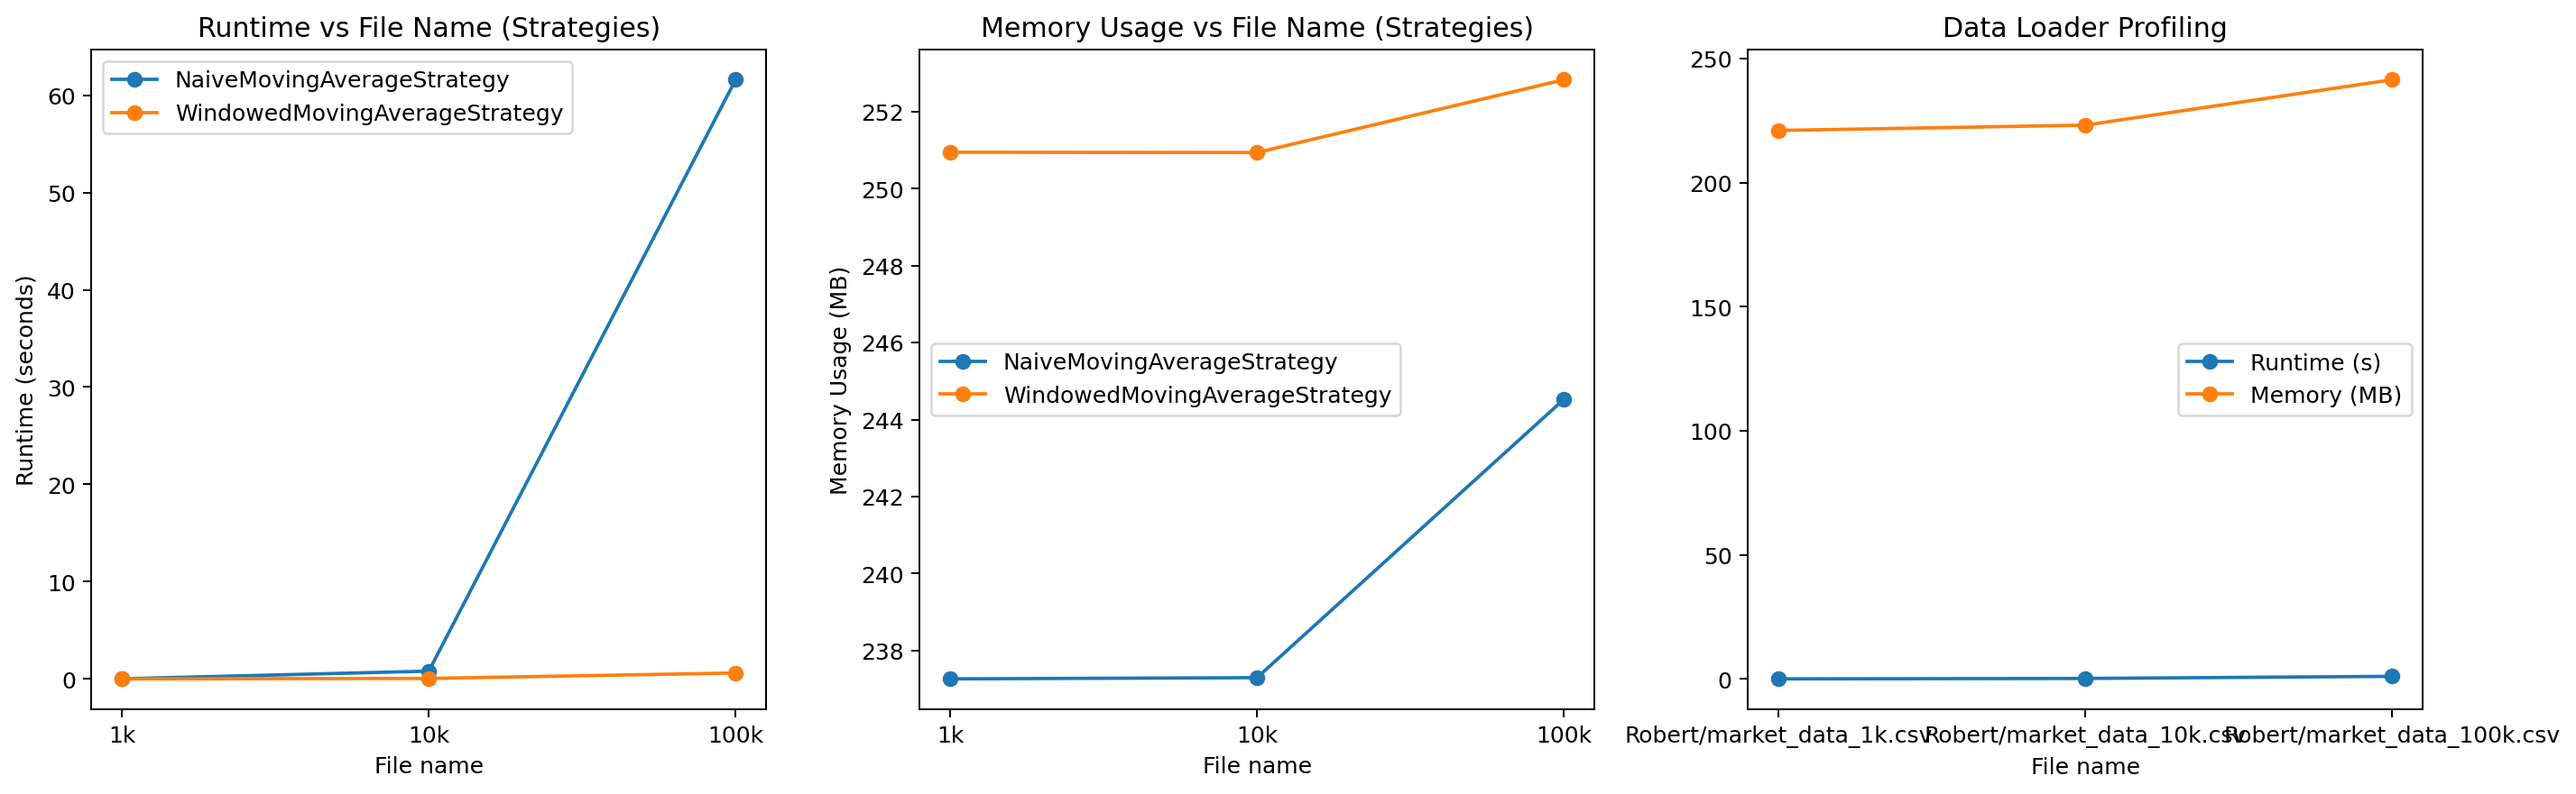
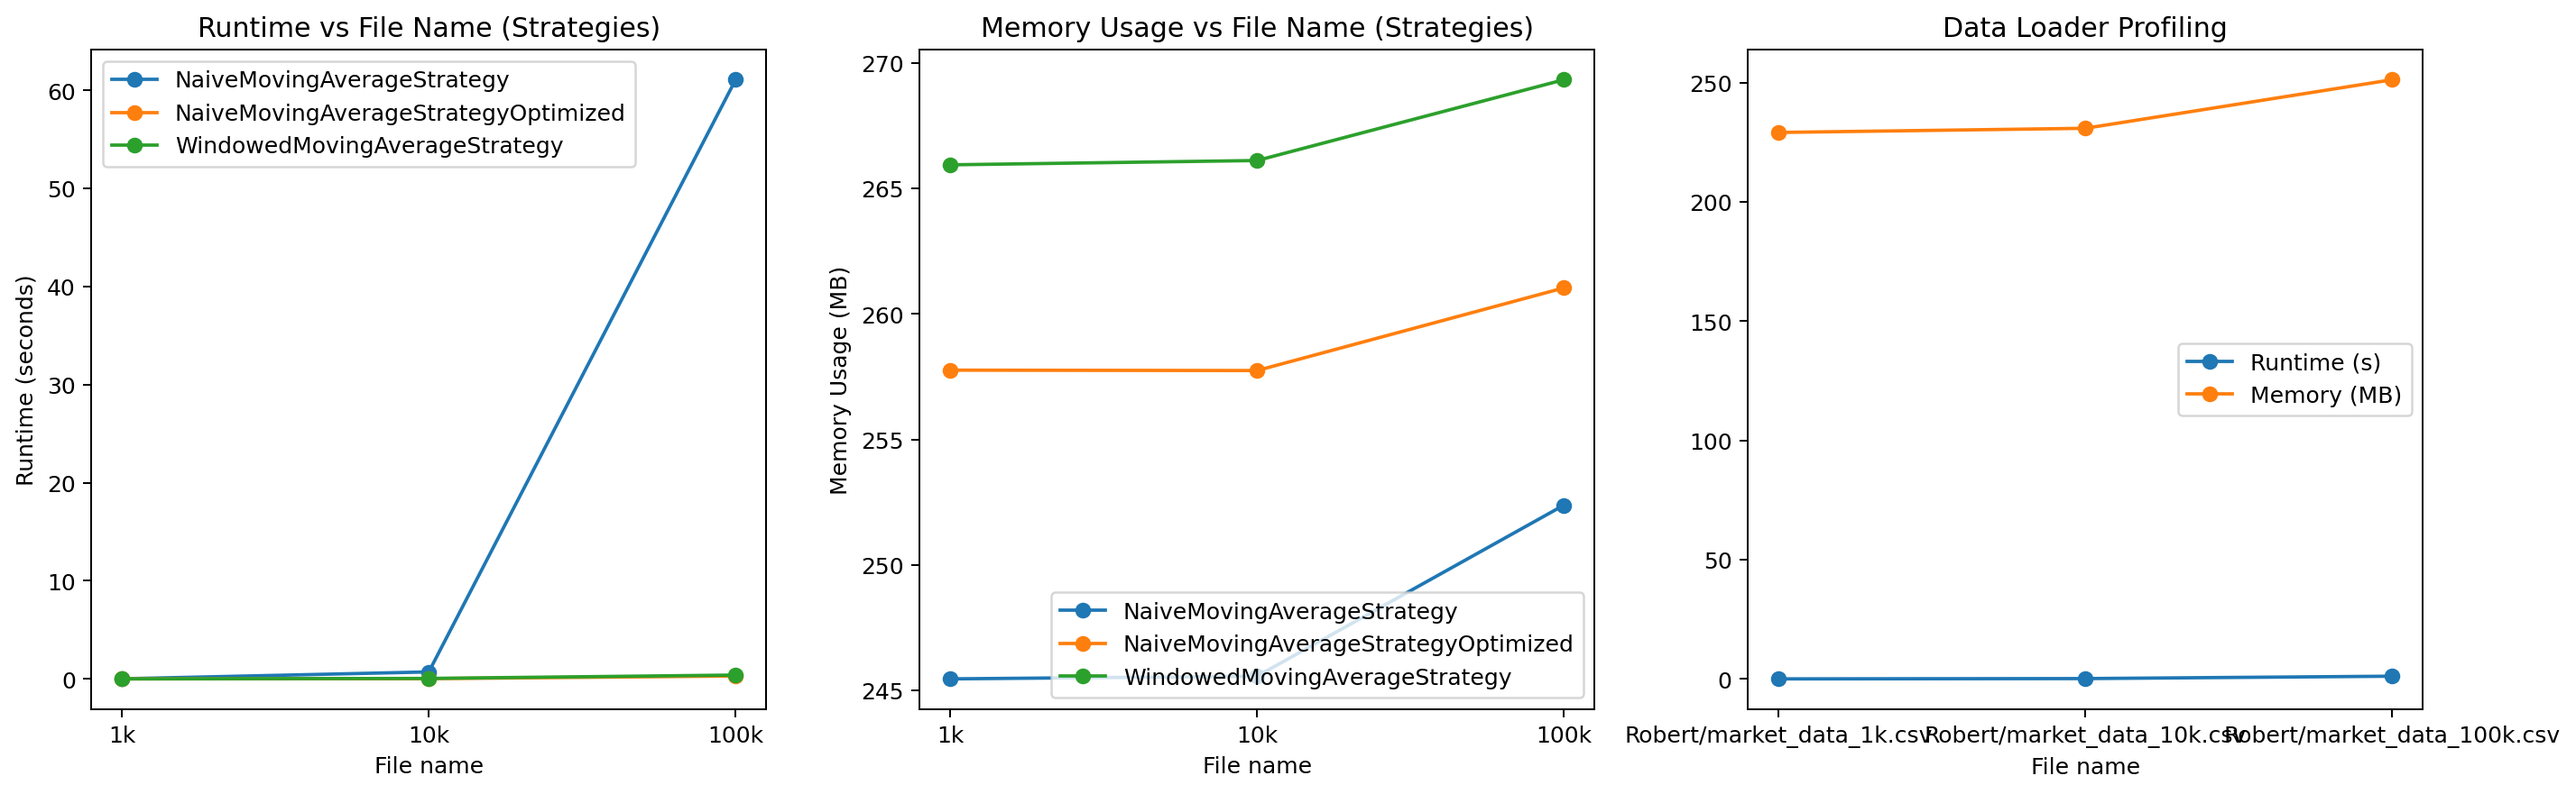
Done.

diff --git a/Robert/main.py b/Robert/main.py
@@ -2,13 +2,13 @@ import data_loader
 from data_loader import read_csv_to_immutable_list
 from profiler import profile_memory, run_strategies_memory_check, run_strategies_time_check, run_data_loader_time_check, plot_profiling_results
 from models import Strategy
-from strategies import NaiveMovingAverageStrategy, WindowedMovingAverageStrategy
+from strategies import NaiveMovingAverageStrategy, NaiveMovingAverageStrategyOptimized, WindowedMovingAverageStrategy
 from tqdm import tqdm
 import timeit
 import pandas as pd
 
 def main():
-    strategies = [NaiveMovingAverageStrategy, WindowedMovingAverageStrategy]
+    strategies = [NaiveMovingAverageStrategy, NaiveMovingAverageStrategyOptimized ,WindowedMovingAverageStrategy]
     file_paths = ["Robert/market_data_1k.csv", "Robert/market_data_10k.csv", "Robert/market_data_100k.csv"]
     file_path_name_dict = {"Robert/market_data_1k.csv" : "1k", "Robert/market_data_10k.csv": "10k", "Robert/market_data_100k.csv": "100k"}
     # Check time and memory usage to load CSV to MarketDataPoints
@@ -95,11 +95,14 @@ if __name__ == "__main__":
         f.write("\n\n## Plots of scaling behavior\n\n")
         # Add your plot references here; see section 3 below for details
         # Examples:
-        f.write("![Time and memory profile](Robert/profiling_results.png)\n\n")
+        f.write("![Time and memory profile](profiling_results.png)\n\n")
 
 
-        f.write("## Narrative comparing strategies and optimization impact\n\n")
-        f.write("Add your analysis here. Compare throughput, latency, and memory across dataset sizes. Note any optimizations and their impact.\n\n")
+        f.write("## Comparing strategies and optimization impact\n\n")
+        f.write("We can see that with few tick the strategy does not matter a lot but when the ticks are increased a bit, they start to matter a lot. \n\n")
+        f.write("Runtime shoots up when ticks are increased to 100k for the orginial Naive strategy and for all strategies the memory usage starts to creep up with a 100k ticks. \n\n")
+        f.write("We can also see that a little optimization has an impact on the Naive strategy.. \n\n")
+
 
     # Second run: cProfile the workload and append the stats to the report
     import cProfile, pstats, io

diff --git a/Robert/strategies.py b/Robert/strategies.py
@@ -53,3 +53,28 @@ class WindowedMovingAverageStrategy(Strategy):
             self.prices.append(price)
             self.running_sum += price
             return signal
+
+
+class NaiveMovingAverageStrategyOptimized(Strategy):
+    def __init__(self):
+        self.prices = []
+        self._running_sum = 0.0
+
+    def generate_signals(self, tick):
+        price = tick.price
+        if not self.prices:
+            self.prices.append(price)
+            self._running_sum += price
+            return []
+        # O(1) average
+        mean_price = self._running_sum / len(self.prices)
+        if price < mean_price:
+            signal = ['BUY']
+        elif price > mean_price:
+            signal = ['SELL']
+        else:
+            signal = []
+        # update state
+        self.prices.append(price)
+        self._running_sum += price
+        return signal

diff --git a/Robert/complexity_report.md b/Robert/complexity_report.md
@@ -6,89 +6,96 @@
 
 | file                        |   load_time_s |   peak_mem_mb |
 |:----------------------------|--------------:|--------------:|
-| Robert/market_data_1k.csv   |     0.0052416 |       139.367 |
-| Robert/market_data_10k.csv  |     0.0558876 |       143.625 |
-| Robert/market_data_100k.csv |     0.481754  |       165.043 |
+| Robert/market_data_1k.csv   |     0.0047656 |       139.359 |
+| Robert/market_data_10k.csv  |     0.0472322 |       143.691 |
+| Robert/market_data_100k.csv |     0.579225  |       165.125 |
 
 ### Strategies
 
-| strategy                      | file   |   run_time_s |   peak_mem_mb |   signals_count |
-|:------------------------------|:-------|-------------:|--------------:|----------------:|
-| NaiveMovingAverageStrategy    | 1k     |    0.0100881 |       168.602 |            1001 |
-| NaiveMovingAverageStrategy    | 10k    |    0.760158  |       168.617 |           10001 |
-| NaiveMovingAverageStrategy    | 100k   |   55.5227    |       175.133 |          100001 |
-| WindowedMovingAverageStrategy | 1k     |    0.0004893 |       180.121 |            1001 |
-| WindowedMovingAverageStrategy | 10k    |    0.0136695 |       180.254 |           10001 |
-| WindowedMovingAverageStrategy | 100k   |    0.0915048 |       183.359 |          100001 |
+| strategy                            | file   |   run_time_s |   peak_mem_mb |   signals_count |
+|:------------------------------------|:-------|-------------:|--------------:|----------------:|
+| NaiveMovingAverageStrategy          | 1k     |    0.0058139 |       168.699 |            1001 |
+| NaiveMovingAverageStrategy          | 10k    |    0.529815  |       168.641 |           10001 |
+| NaiveMovingAverageStrategy          | 100k   |   49.3404    |       174.34  |          100001 |
+| NaiveMovingAverageStrategyOptimized | 1k     |    0.0005799 |       180.891 |            1001 |
+| NaiveMovingAverageStrategyOptimized | 10k    |    0.0050465 |       178.867 |           10001 |
+| NaiveMovingAverageStrategyOptimized | 100k   |    0.0807568 |       182.777 |          100001 |
+| WindowedMovingAverageStrategy       | 1k     |    0.0013898 |       187.906 |            1001 |
+| WindowedMovingAverageStrategy       | 10k    |    0.0062975 |       188.082 |           10001 |
+| WindowedMovingAverageStrategy       | 100k   |    0.220536  |       190.789 |          100001 |
 
 ## Plots of scaling behavior
 
-![Time and memory profile](Robert/profiling_results.png)
+![Time and memory profile](profiling_results.png)
 
-## Narrative comparing strategies and optimization impact
+## Comparing strategies and optimization impact
 
-Add your analysis here. Compare throughput, latency, and memory across dataset sizes. Note any optimizations and their impact.
+We can see that with few tick the strategy does not matter a lot but when the ticks are increased a bit, they start to matter a lot. 
+
+Runtime shoots up when ticks are increased to 100k for the orginial Naive strategy and for all strategies the memory usage starts to creep up with a 100k ticks. 
+
+We can also see that a little optimization has an impact on the Naive strategy.. 
 
 
 ## Additional profiling: cProfile
 
 ```
-         6223190 function calls (6205838 primitive calls) in 353.602 seconds
+         7412461 function calls (7395420 primitive calls) in 675.403 seconds
 
    Ordered by: cumulative time
-   List reduced from 1738 to 50 due to restriction <50>
+   List reduced from 1740 to 50 due to restriction <50>
 
    ncalls  tottime  percall  cumtime  percall filename:lineno(function)
-    434/2    0.009    0.000  352.416  176.208 C:\Users\Lenovo\anaconda3\Lib\site-packages\matplotlib\text.py:926(get_window_extent)
-       34    0.012    0.000  258.286    7.597 C:\Users\Lenovo\anaconda3\Lib\threading.py:641(wait)
-       21    0.001    0.000  219.946   10.474 c:\Users\Lenovo\Documents\FinMath UChicago\Coursework\FINM 32500 1 Computing for Finance in Python\Assignment 3\Assignment_3\Robert\profiler.py:11(profile_memory)
-       21    0.333    0.016  212.401   10.114 C:\Users\Lenovo\anaconda3\Lib\site-packages\memory_profiler.py:269(memory_usage)
-        6    0.225    0.037  188.391   31.399 c:\Users\Lenovo\Documents\FinMath UChicago\Coursework\FINM 32500 1 Computing for Finance in Python\Assignment 3\Assignment_3\Robert\profiler.py:21(run_strategies_memory_check)
-      255    0.003    0.000  180.911    0.709 C:\Users\Lenovo\anaconda3\Lib\multiprocessing\connection.py:246(recv)
-      255    0.005    0.000  180.905    0.709 C:\Users\Lenovo\anaconda3\Lib\multiprocessing\connection.py:310(_recv_bytes)
-      170  180.895    1.064  180.895    1.064 {built-in method _winapi.WaitForMultipleObjects}
-       34    0.378    0.011  154.353    4.540 C:\Users\Lenovo\anaconda3\Lib\threading.py:327(wait)
-   222035    1.064    0.000  128.234    0.001 c:\Users\Lenovo\Documents\FinMath UChicago\Coursework\FINM 32500 1 Computing for Finance in Python\Assignment 3\Assignment_3\Robert\strategies.py:12(generate_signals)
-   224210  126.992    0.001  127.276    0.001 {built-in method builtins.sum}
-    523/2    0.041    0.000  114.092   57.046 C:\Users\Lenovo\anaconda3\Lib\site-packages\matplotlib\text.py:358(_get_layout)
-      139   29.983    0.216   29.993    0.216 {method 'acquire' of '_thread.lock' objects}
-      722    0.036    0.000   10.028    0.014 C:\Users\Lenovo\anaconda3\Lib\site-packages\tqdm\std.py:102(acquire)
-       59    0.000    0.000   10.017    0.170 C:\Users\Lenovo\anaconda3\Lib\site-packages\tqdm\std.py:110(__enter__)
-        6    0.127    0.021    8.680    1.447 c:\Users\Lenovo\Documents\FinMath UChicago\Coursework\FINM 32500 1 Computing for Finance in Python\Assignment 3\Assignment_3\Robert\profiler.py:56(run_strategies_time_check)
-       85    0.001    0.000    6.238    0.073 C:\Users\Lenovo\anaconda3\Lib\multiprocessing\process.py:142(join)
-      204    0.002    0.000    6.237    0.031 C:\Users\Lenovo\anaconda3\Lib\multiprocessing\popen_spawn_win32.py:105(wait)
-      204    6.235    0.031    6.235    0.031 {built-in method _winapi.WaitForSingleObject}
-       10    0.832    0.083    3.130    0.313 c:\Users\Lenovo\Documents\FinMath UChicago\Coursework\FINM 32500 1 Computing for Finance in Python\Assignment 3\Assignment_3\Robert\data_loader.py:11(read_csv_to_immutable_list)
-   235020    1.051    0.000    1.711    0.000 C:\Users\Lenovo\anaconda3\Lib\csv.py:174(__next__)
-        3    0.000    0.000    1.226    0.409 c:\Users\Lenovo\Documents\FinMath UChicago\Coursework\FINM 32500 1 Computing for Finance in Python\Assignment 3\Assignment_3\Robert\profiler.py:48(run_data_loader_time_check)
-   222012    0.209    0.000    0.988    0.000 C:\Users\Lenovo\anaconda3\Lib\site-packages\tqdm\std.py:1160(__iter__)
-   222037    0.646    0.000    0.883    0.000 c:\Users\Lenovo\Documents\FinMath UChicago\Coursework\FINM 32500 1 Computing for Finance in Python\Assignment 3\Assignment_3\Robert\strategies.py:36(generate_signals)
-      657    0.017    0.000    0.751    0.001 C:\Users\Lenovo\anaconda3\Lib\site-packages\tqdm\std.py:1198(update)
-      663    0.007    0.000    0.731    0.001 C:\Users\Lenovo\anaconda3\Lib\site-packages\tqdm\std.py:1325(refresh)
-      669    0.005    0.000    0.708    0.001 C:\Users\Lenovo\anaconda3\Lib\site-packages\tqdm\std.py:1464(display)
-       85    0.002    0.000    0.483    0.006 C:\Users\Lenovo\anaconda3\Lib\multiprocessing\process.py:110(start)
-       85    0.001    0.000    0.462    0.005 C:\Users\Lenovo\anaconda3\Lib\multiprocessing\context.py:222(_Popen)
-       85    0.002    0.000    0.462    0.005 C:\Users\Lenovo\anaconda3\Lib\multiprocessing\context.py:334(_Popen)
-       85    0.005    0.000    0.460    0.005 C:\Users\Lenovo\anaconda3\Lib\multiprocessing\popen_spawn_win32.py:46(__init__)
-238795/238439    0.356    0.000    0.427    0.000 {built-in method builtins.next}
-       85    0.411    0.005    0.411    0.005 {built-in method _winapi.CreateProcess}
-   235010    0.397    0.000    0.397    0.000 <string>:2(__init__)
-     2007    0.004    0.000    0.386    0.000 C:\Users\Lenovo\anaconda3\Lib\site-packages\tqdm\utils.py:378(disp_len)
-     2007    0.006    0.000    0.375    0.000 C:\Users\Lenovo\anaconda3\Lib\site-packages\tqdm\utils.py:374(_text_width)
-   907924    0.357    0.000    0.357    0.000 {method 'append' of 'list' objects}
-      669    0.008    0.000    0.352    0.001 C:\Users\Lenovo\anaconda3\Lib\site-packages\tqdm\std.py:1150(__str__)
-      669    0.005    0.000    0.350    0.001 C:\Users\Lenovo\anaconda3\Lib\site-packages\tqdm\std.py:457(print_status)
-      132    0.010    0.000    0.348    0.003 C:\Users\Lenovo\anaconda3\Lib\site-packages\matplotlib\axis.py:1287(_update_ticks)
-1143533/1143481    0.340    0.000    0.340    0.000 {built-in method builtins.len}
-      669    0.056    0.000    0.334    0.000 C:\Users\Lenovo\anaconda3\Lib\site-packages\tqdm\std.py:464(format_meter)
-   370862    0.185    0.000    0.269    0.000 C:\Users\Lenovo\anaconda3\Lib\site-packages\tqdm\utils.py:375(<genexpr>)
-        1    0.000    0.000    0.212    0.212 C:\Users\Lenovo\anaconda3\Lib\site-packages\matplotlib\image.py:1508(imsave)
-        1    0.000    0.000    0.212    0.212 C:\Users\Lenovo\anaconda3\Lib\site-packages\PIL\Image.py:2509(save)
-        1    0.000    0.000    0.207    0.207 C:\Users\Lenovo\anaconda3\Lib\site-packages\PIL\PngImagePlugin.py:1300(_save)
-        1    0.000    0.000    0.207    0.207 C:\Users\Lenovo\anaconda3\Lib\site-packages\PIL\ImageFile.py:535(_save)
-        1    0.000    0.000    0.207    0.207 C:\Users\Lenovo\anaconda3\Lib\site-packages\PIL\ImageFile.py:563(_encode_tile)
-        3    0.206    0.069    0.206    0.069 {method 'encode' of 'ImagingEncoder' objects}
-   1127/5    0.007    0.000    0.183    0.037 C:\Users\Lenovo\anaconda3\Lib\site-packages\matplotlib\text.py:65(_get_text_metrics_with_cache)
+    408/2    0.008    0.000  566.169  283.085 C:\Users\Lenovo\anaconda3\Lib\site-packages\matplotlib\text.py:926(get_window_extent)
+       30    0.001    0.000  536.711   17.890 c:\Users\Lenovo\Documents\FinMath UChicago\Coursework\FINM 32500 1 Computing for Finance in Python\Assignment 3\Assignment_3\Robert\profiler.py:11(profile_memory)
+       30    1.232    0.041  529.896   17.663 C:\Users\Lenovo\anaconda3\Lib\site-packages\memory_profiler.py:269(memory_usage)
+        9    0.332    0.037  453.030   50.337 c:\Users\Lenovo\Documents\FinMath UChicago\Coursework\FINM 32500 1 Computing for Finance in Python\Assignment 3\Assignment_3\Robert\profiler.py:21(run_strategies_memory_check)
+      483    0.005    0.000  412.364    0.854 C:\Users\Lenovo\anaconda3\Lib\multiprocessing\connection.py:246(recv)
+      483    0.008    0.000  412.354    0.854 C:\Users\Lenovo\anaconda3\Lib\multiprocessing\connection.py:310(_recv_bytes)
+      324  412.339    1.273  412.339    1.273 {built-in method _winapi.WaitForMultipleObjects}
+       66    0.001    0.000  348.732    5.284 C:\Users\Lenovo\anaconda3\Lib\threading.py:641(wait)
+    518/2    0.043    0.000  345.698  172.849 C:\Users\Lenovo\anaconda3\Lib\site-packages\matplotlib\text.py:358(_get_layout)
+       66    0.315    0.005  334.542    5.069 C:\Users\Lenovo\anaconda3\Lib\threading.py:327(wait)
+      267  110.328    0.413  133.687    0.501 {method 'acquire' of '_thread.lock' objects}
+   222049    0.960    0.000  132.502    0.001 c:\Users\Lenovo\Documents\FinMath UChicago\Coursework\FINM 32500 1 Computing for Finance in Python\Assignment 3\Assignment_3\Robert\strategies.py:12(generate_signals)
+   224507  131.397    0.001  131.721    0.001 {built-in method builtins.sum}
+      103    0.001    0.000   90.172    0.875 C:\Users\Lenovo\anaconda3\Lib\site-packages\tqdm\std.py:110(__enter__)
+      829    0.123    0.000   49.023    0.059 C:\Users\Lenovo\anaconda3\Lib\site-packages\tqdm\std.py:102(acquire)
+      416    0.003    0.000   10.486    0.025 C:\Users\Lenovo\anaconda3\Lib\multiprocessing\popen_spawn_win32.py:105(wait)
+      161    0.002    0.000   10.486    0.065 C:\Users\Lenovo\anaconda3\Lib\multiprocessing\process.py:142(join)
+      416   10.482    0.025   10.482    0.025 {built-in method _winapi.WaitForSingleObject}
+        9    0.205    0.023    6.619    0.735 c:\Users\Lenovo\Documents\FinMath UChicago\Coursework\FINM 32500 1 Computing for Finance in Python\Assignment 3\Assignment_3\Robert\profiler.py:56(run_strategies_time_check)
+       10    0.699    0.070    2.644    0.264 c:\Users\Lenovo\Documents\FinMath UChicago\Coursework\FINM 32500 1 Computing for Finance in Python\Assignment 3\Assignment_3\Robert\data_loader.py:11(read_csv_to_immutable_list)
+   235020    0.895    0.000    1.452    0.000 C:\Users\Lenovo\anaconda3\Lib\csv.py:174(__next__)
+        3    0.000    0.000    1.280    0.427 c:\Users\Lenovo\Documents\FinMath UChicago\Coursework\FINM 32500 1 Computing for Finance in Python\Assignment 3\Assignment_3\Robert\profiler.py:48(run_data_loader_time_check)
+   333018    0.288    0.000    1.180    0.000 C:\Users\Lenovo\anaconda3\Lib\site-packages\tqdm\std.py:1160(__iter__)
+      717    0.018    0.000    0.839    0.001 C:\Users\Lenovo\anaconda3\Lib\site-packages\tqdm\std.py:1198(update)
+      733    0.008    0.000    0.826    0.001 C:\Users\Lenovo\anaconda3\Lib\site-packages\tqdm\std.py:1325(refresh)
+      742    0.006    0.000    0.805    0.001 C:\Users\Lenovo\anaconda3\Lib\site-packages\tqdm\std.py:1464(display)
+   222045    0.592    0.000    0.797    0.000 c:\Users\Lenovo\Documents\FinMath UChicago\Coursework\FINM 32500 1 Computing for Finance in Python\Assignment 3\Assignment_3\Robert\strategies.py:36(generate_signals)
+      161    0.003    0.000    0.796    0.005 C:\Users\Lenovo\anaconda3\Lib\multiprocessing\process.py:110(start)
+      161    0.001    0.000    0.755    0.005 C:\Users\Lenovo\anaconda3\Lib\multiprocessing\context.py:222(_Popen)
+      161    0.003    0.000    0.754    0.005 C:\Users\Lenovo\anaconda3\Lib\multiprocessing\context.py:334(_Popen)
+      161    0.010    0.000    0.750    0.005 C:\Users\Lenovo\anaconda3\Lib\multiprocessing\popen_spawn_win32.py:46(__init__)
+      161    0.658    0.004    0.658    0.004 {built-in method _winapi.CreateProcess}
+  1351945    0.458    0.000    0.458    0.000 {method 'append' of 'list' objects}
+     2226    0.005    0.000    0.435    0.000 C:\Users\Lenovo\anaconda3\Lib\site-packages\tqdm\utils.py:378(disp_len)
+   222051    0.308    0.000    0.428    0.000 c:\Users\Lenovo\Documents\FinMath UChicago\Coursework\FINM 32500 1 Computing for Finance in Python\Assignment 3\Assignment_3\Robert\strategies.py:63(generate_signals)
+     2226    0.007    0.000    0.422    0.000 C:\Users\Lenovo\anaconda3\Lib\site-packages\tqdm\utils.py:374(_text_width)
+      742    0.006    0.000    0.399    0.001 C:\Users\Lenovo\anaconda3\Lib\site-packages\tqdm\std.py:457(print_status)
+      742    0.010    0.000    0.398    0.001 C:\Users\Lenovo\anaconda3\Lib\site-packages\tqdm\std.py:1150(__str__)
+      742    0.063    0.000    0.378    0.001 C:\Users\Lenovo\anaconda3\Lib\site-packages\tqdm\std.py:464(format_meter)
+239019/238663    0.300    0.000    0.366    0.000 {built-in method builtins.next}
+1366252/1366198    0.364    0.000    0.364    0.000 {built-in method builtins.len}
+   235010    0.331    0.000    0.331    0.000 <string>:2(__init__)
+      132    0.009    0.000    0.320    0.002 C:\Users\Lenovo\anaconda3\Lib\site-packages\matplotlib\axis.py:1287(_update_ticks)
+   411174    0.207    0.000    0.302    0.000 C:\Users\Lenovo\anaconda3\Lib\site-packages\tqdm\utils.py:375(<genexpr>)
+      742    0.006    0.000    0.211    0.000 C:\Users\Lenovo\anaconda3\Lib\site-packages\tqdm\std.py:451(fp_write)
+     1502    0.004    0.000    0.206    0.000 C:\Users\Lenovo\anaconda3\Lib\site-packages\tqdm\utils.py:194(inner)
+        1    0.000    0.000    0.206    0.206 C:\Users\Lenovo\anaconda3\Lib\site-packages\matplotlib\image.py:1508(imsave)
+        1    0.000    0.000    0.206    0.206 C:\Users\Lenovo\anaconda3\Lib\site-packages\PIL\Image.py:2509(save)
+        1    0.000    0.000    0.201    0.201 C:\Users\Lenovo\anaconda3\Lib\site-packages\PIL\PngImagePlugin.py:1300(_save)
+        1    0.000    0.000    0.201    0.201 C:\Users\Lenovo\anaconda3\Lib\site-packages\PIL\ImageFile.py:535(_save)
 
 
 

diff --git a/Robert/README.md b/Robert/README.md
@@ -1,0 +1,35 @@
+# Assignment_3
+Runtime and Space Complexity in Financial Signal Processing
+
+## How to Run
+1.  **Set up your environment**. Make sure you have your Python environment ready.
+2.  **Packages needed**. tqdm, timeit, pandas,  matplotlib.pyplot and memory_profiler
+3.  **Open the notebook**. Open the `main.py`.
+4.  **Run the code**. Run the code in the file.
+5.  **See the results**. The notebook will write the results in the file `complexity_report.md`.
+
+
+## What's Inside? (File Descriptions)
+- **data_loader.py**  
+  - Handles **CSV parsing** and **dataclass creation**
+
+- **models.py**  
+  - Defines **MarketDataPoint** and **Strategy** base classes
+
+- **strategies.py**  
+  - Implements **naive** and **optimized strategy** variations
+
+- **profiler.py**  
+  - Performs **runtime**,  **memory measurement** and **plotting**
+
+- **main.py**  
+  - **Orchestrates** data ingestion, strategy execution, and profiling workflow
+
+- **tests.ipynb/**  
+  - Contains **notebook-based validation**
+
+- **complexity_report.md**  
+  - Provides a **summary of performance and complexity findings**
+
+- **README.md**  
+  - Includes **setup instructions** and **module descriptions**
